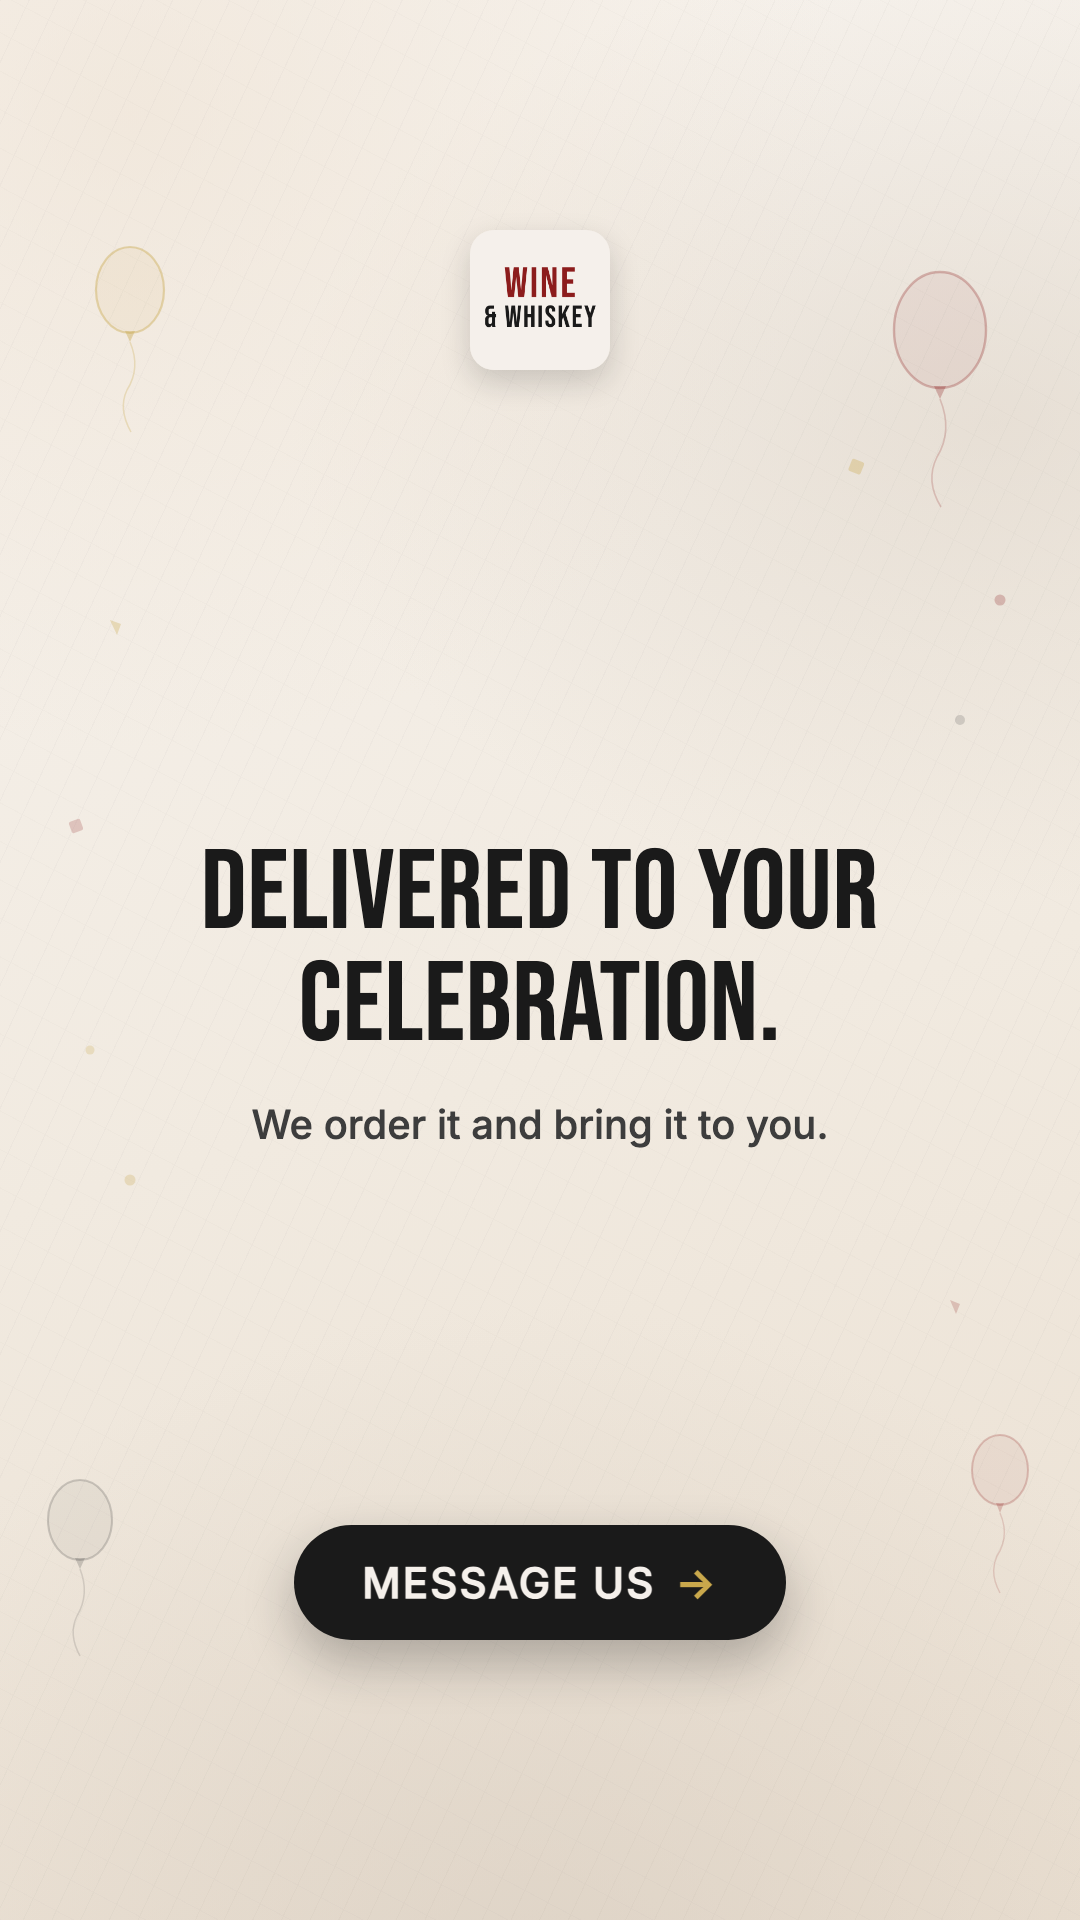
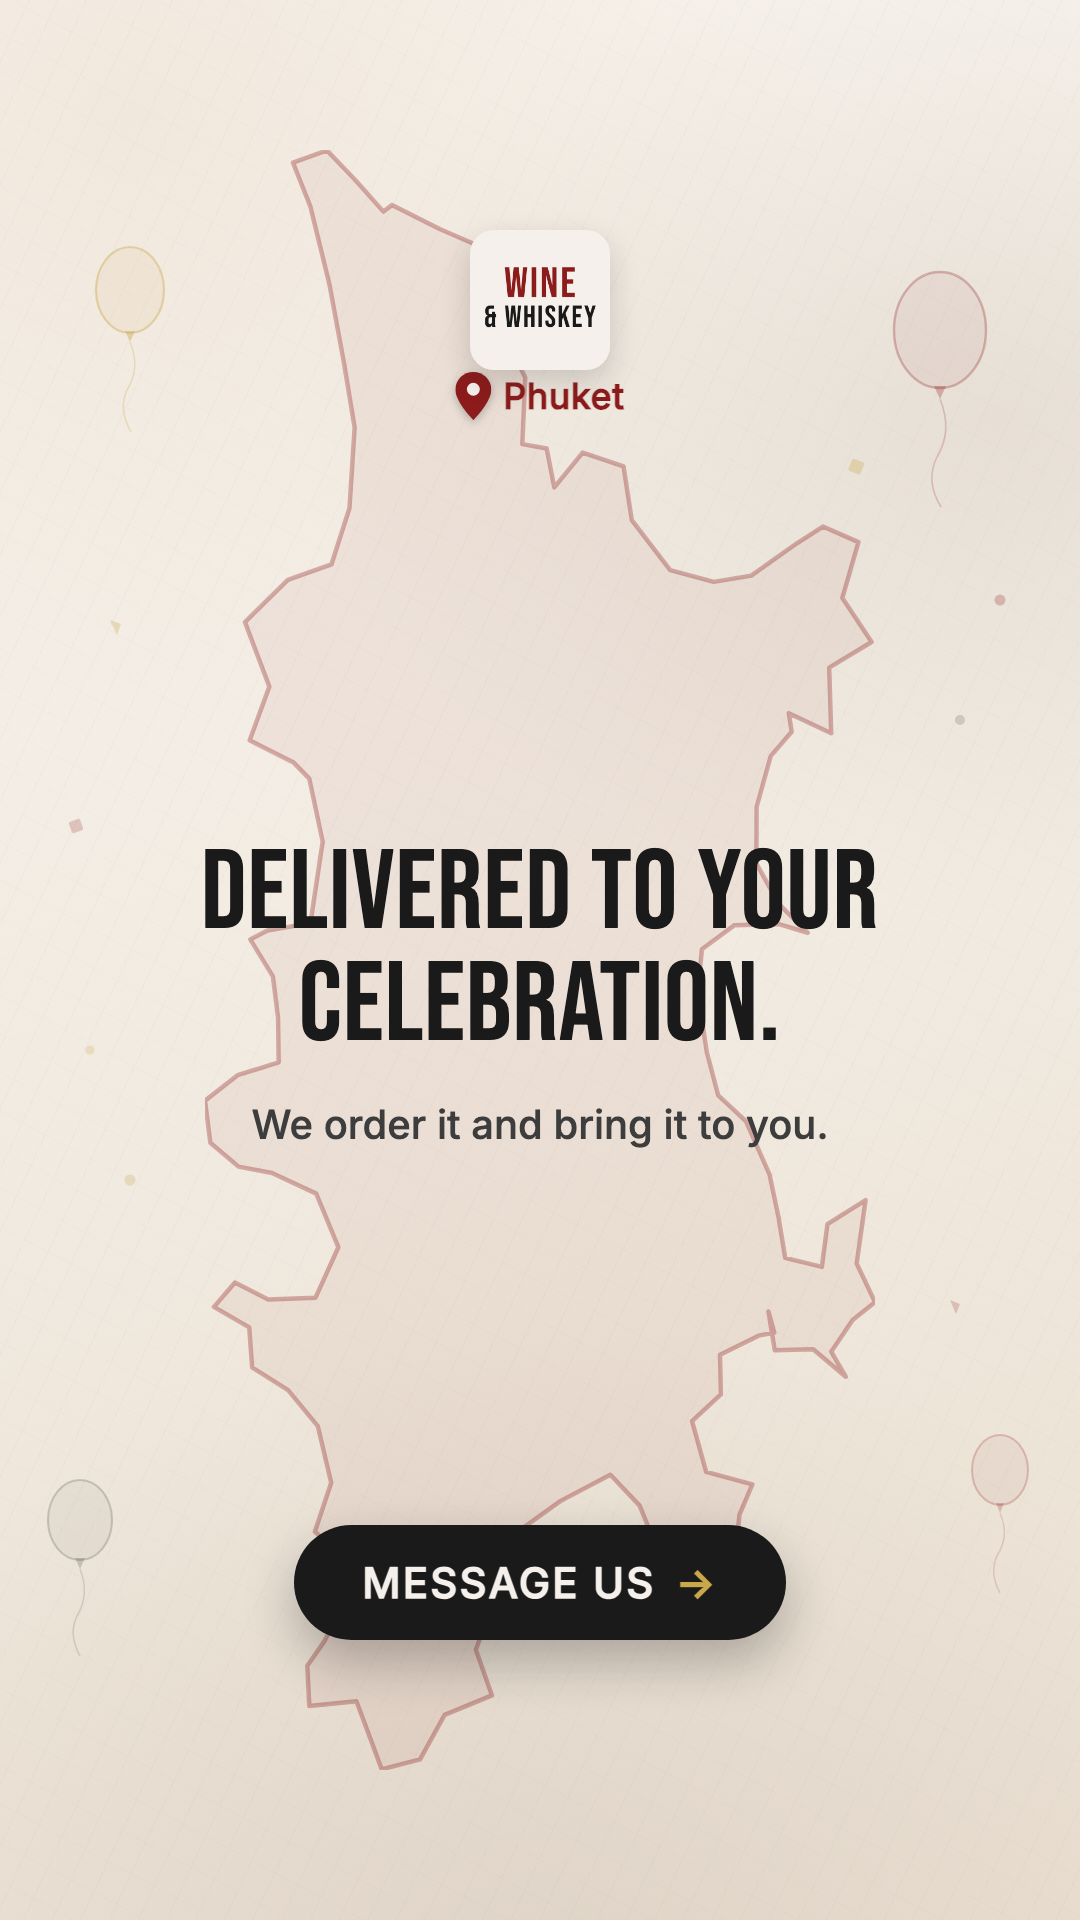
feat(campaign): full-canvas Phuket coastline + geopin behind copy (static)
Accurate Phuket outline (Thailand provinces GeoJSON, cvibhagool/thailand-map)
as a faint full-canvas watermark with a wine-red 'Phuket' geopin, so every
creative signals the location without extra words. Path in assets/phuket_path.txt.

diff --git a/05_creative/output/2026-07-13_birthday-beverage-partner/build.py b/05_creative/output/2026-07-13_birthday-beverage-partner/build.py
@@ -152,6 +152,42 @@ DECOR_ST = """
 """
 
 
+# ---- Phuket geo-cue: full-canvas island coastline (accurate, from Thailand
+# provinces GeoJSON) behind the copy + a wine-red geopin labelled "Phuket". ----
+PHUKET_D = (HERE / "assets/phuket_path.txt").read_text().strip()
+PHUKET_VB = "0 0 300 725"  # real Phuket proportions (tall & narrow)
+_PIN = (
+    '<svg width="{w}" height="{h}" viewBox="0 0 24 32" style="display:block;'
+    'filter:drop-shadow(0 3px 5px rgba(26,26,26,.28))">'
+    '<path d="M12 0C5.4 0 0 5.2 0 11.6 0 20 12 32 12 32s12-12 12-20.4C24 5.2 18.6 0 12 0z" '
+    'fill="#8C1C1C"/><circle cx="12" cy="11.5" r="4.3" fill="#F5F0EB"/></svg>'
+)
+
+
+def phuket_stamp(fmt: str) -> str:
+    isl_h = 960 if fmt == "sq" else 1620
+    isl_w = round(isl_h * 300 / 725)
+    island = (
+        f'<div style="position:absolute;z-index:0;left:50%;top:50%;'
+        f'transform:translate(-50%,-50%);pointer-events:none;">'
+        f'<svg viewBox="{PHUKET_VB}" width="{isl_w}" height="{isl_h}" '
+        f'preserveAspectRatio="xMidYMid meet" style="display:block">'
+        f'<path d="{PHUKET_D}" fill="rgba(140,28,28,0.05)" '
+        f'stroke="rgba(140,28,28,0.32)" stroke-width="2" stroke-linejoin="round"/></svg></div>'
+    )
+    pw, ph = (30, 40) if fmt == "sq" else (36, 48)
+    lab = 30 if fmt == "sq" else 36
+    top = 250 if fmt == "sq" else 372
+    pin = (
+        f'<div style="position:absolute;z-index:1;top:{top}px;left:50%;'
+        f'transform:translateX(-50%);display:flex;align-items:center;gap:12px;'
+        f'pointer-events:none;">{_PIN.format(w=pw, h=ph)}'
+        f'<span style="font-family:\'DM Sans\',\'Inter\',sans-serif;font-weight:600;'
+        f'font-size:{lab}px;color:#8C1C1C;letter-spacing:.01em;">Phuket</span></div>'
+    )
+    return island + pin
+
+
 def render_html(angle: str, lang: str, fmt: str) -> str:
     """Build the full self-contained HTML for one angle/lang/format combo."""
     entry = COPY[angle][lang]
@@ -269,6 +305,12 @@ html,body {{ width:{w}px; height:{h}px; }}
   <div class="cta"><span class="label">{wa_label}</span><span class="arrow">&rarr;</span></div>
 </div>
 """
+
+    body = body.replace(
+        '<div class="decor" aria-hidden="true">',
+        phuket_stamp(fmt) + '<div class="decor" aria-hidden="true">',
+        1,
+    )
 
     return f"""<!doctype html>
 <html lang="{lang}">
